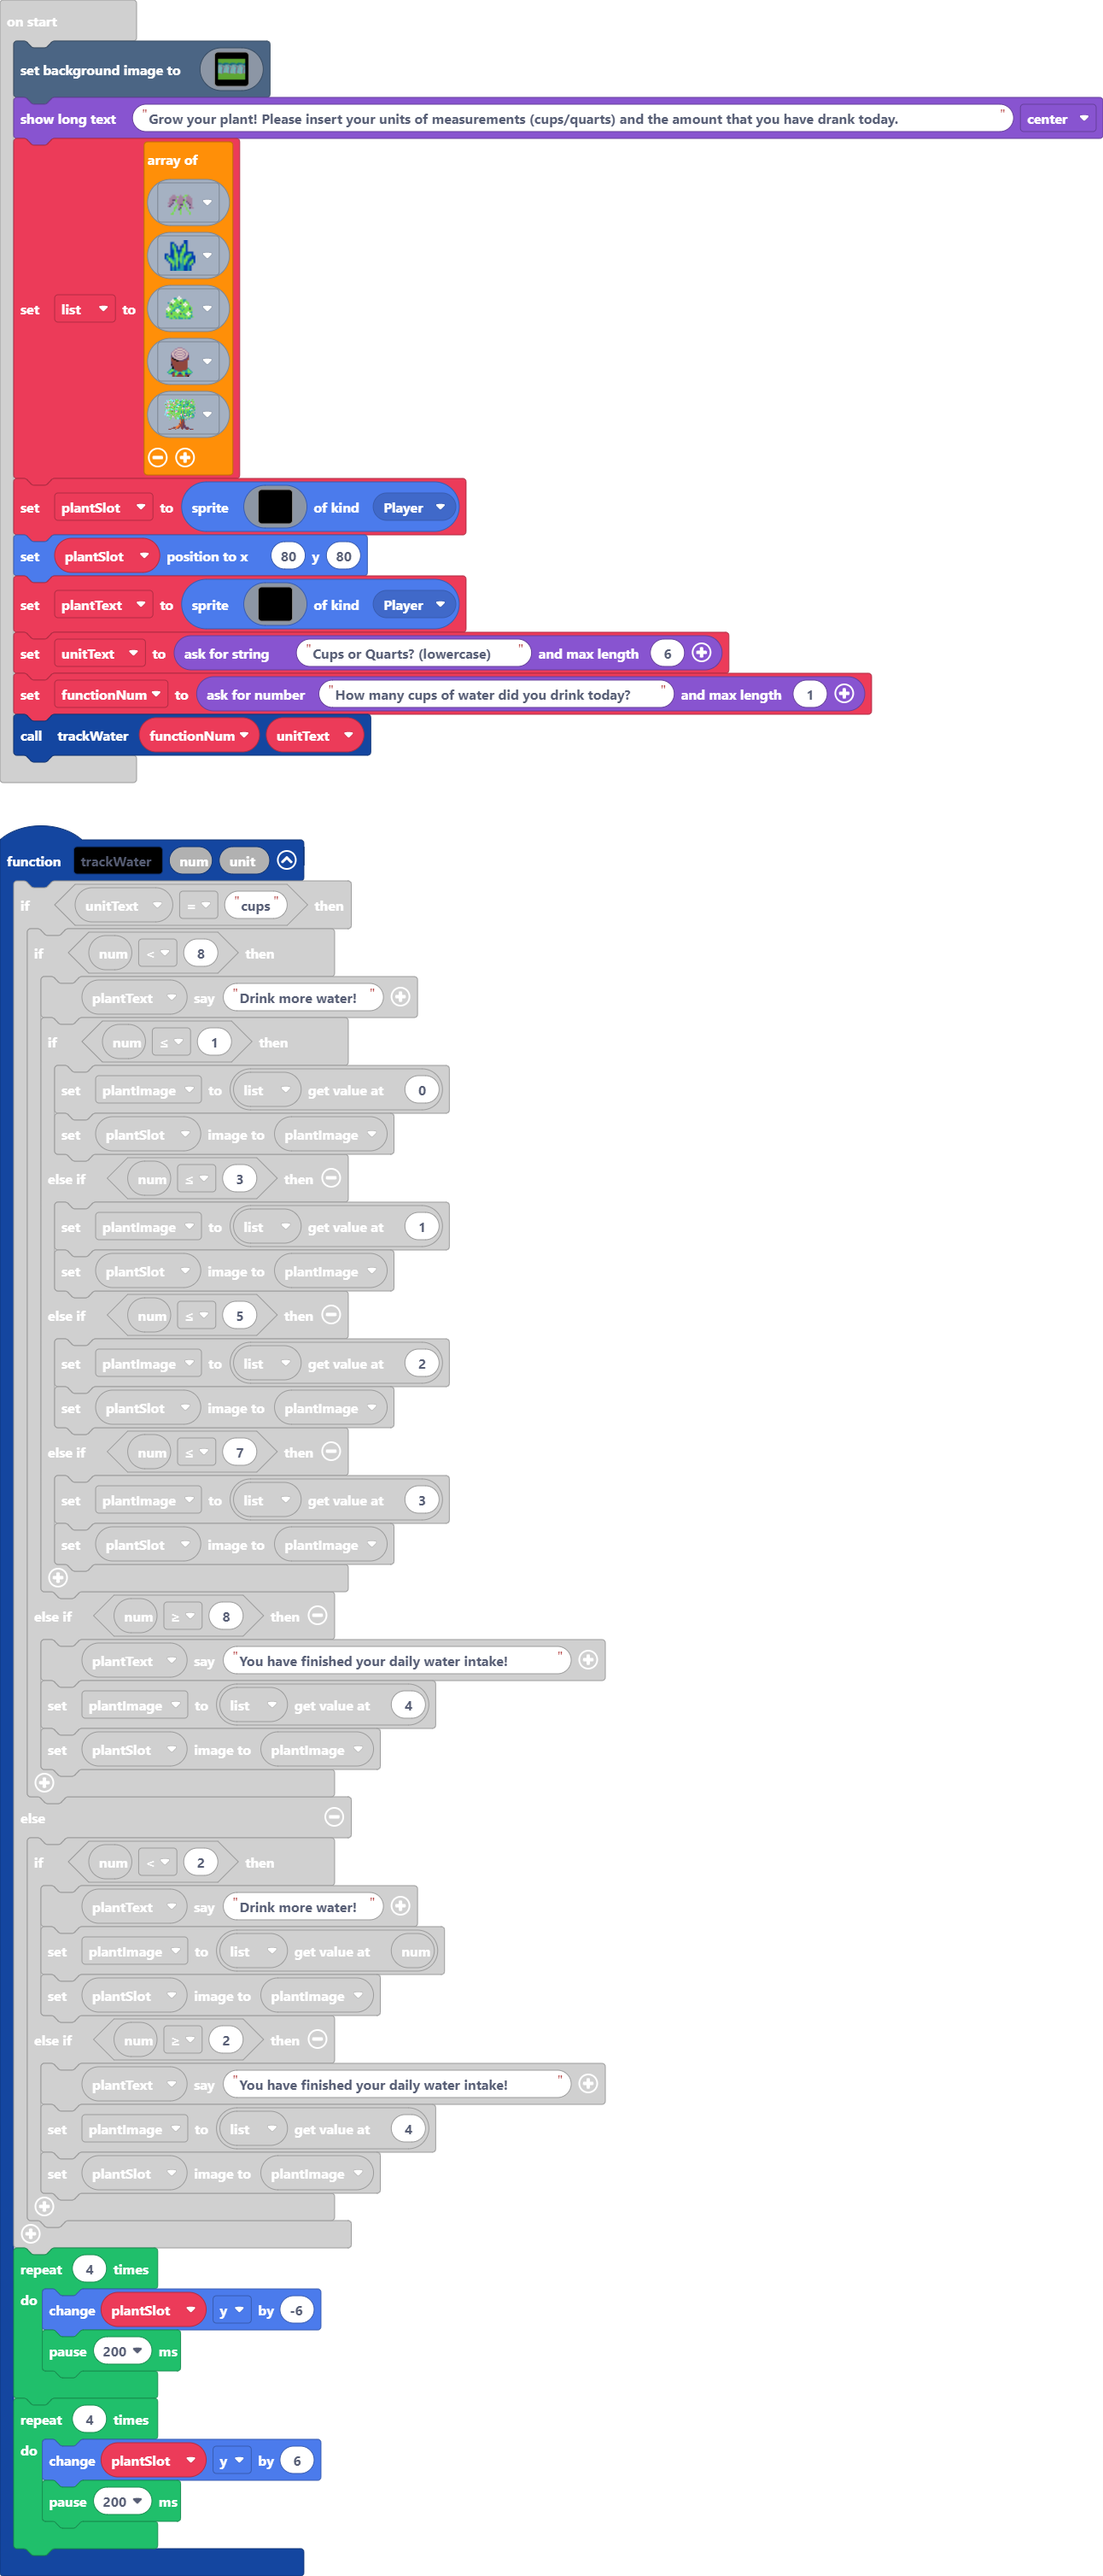
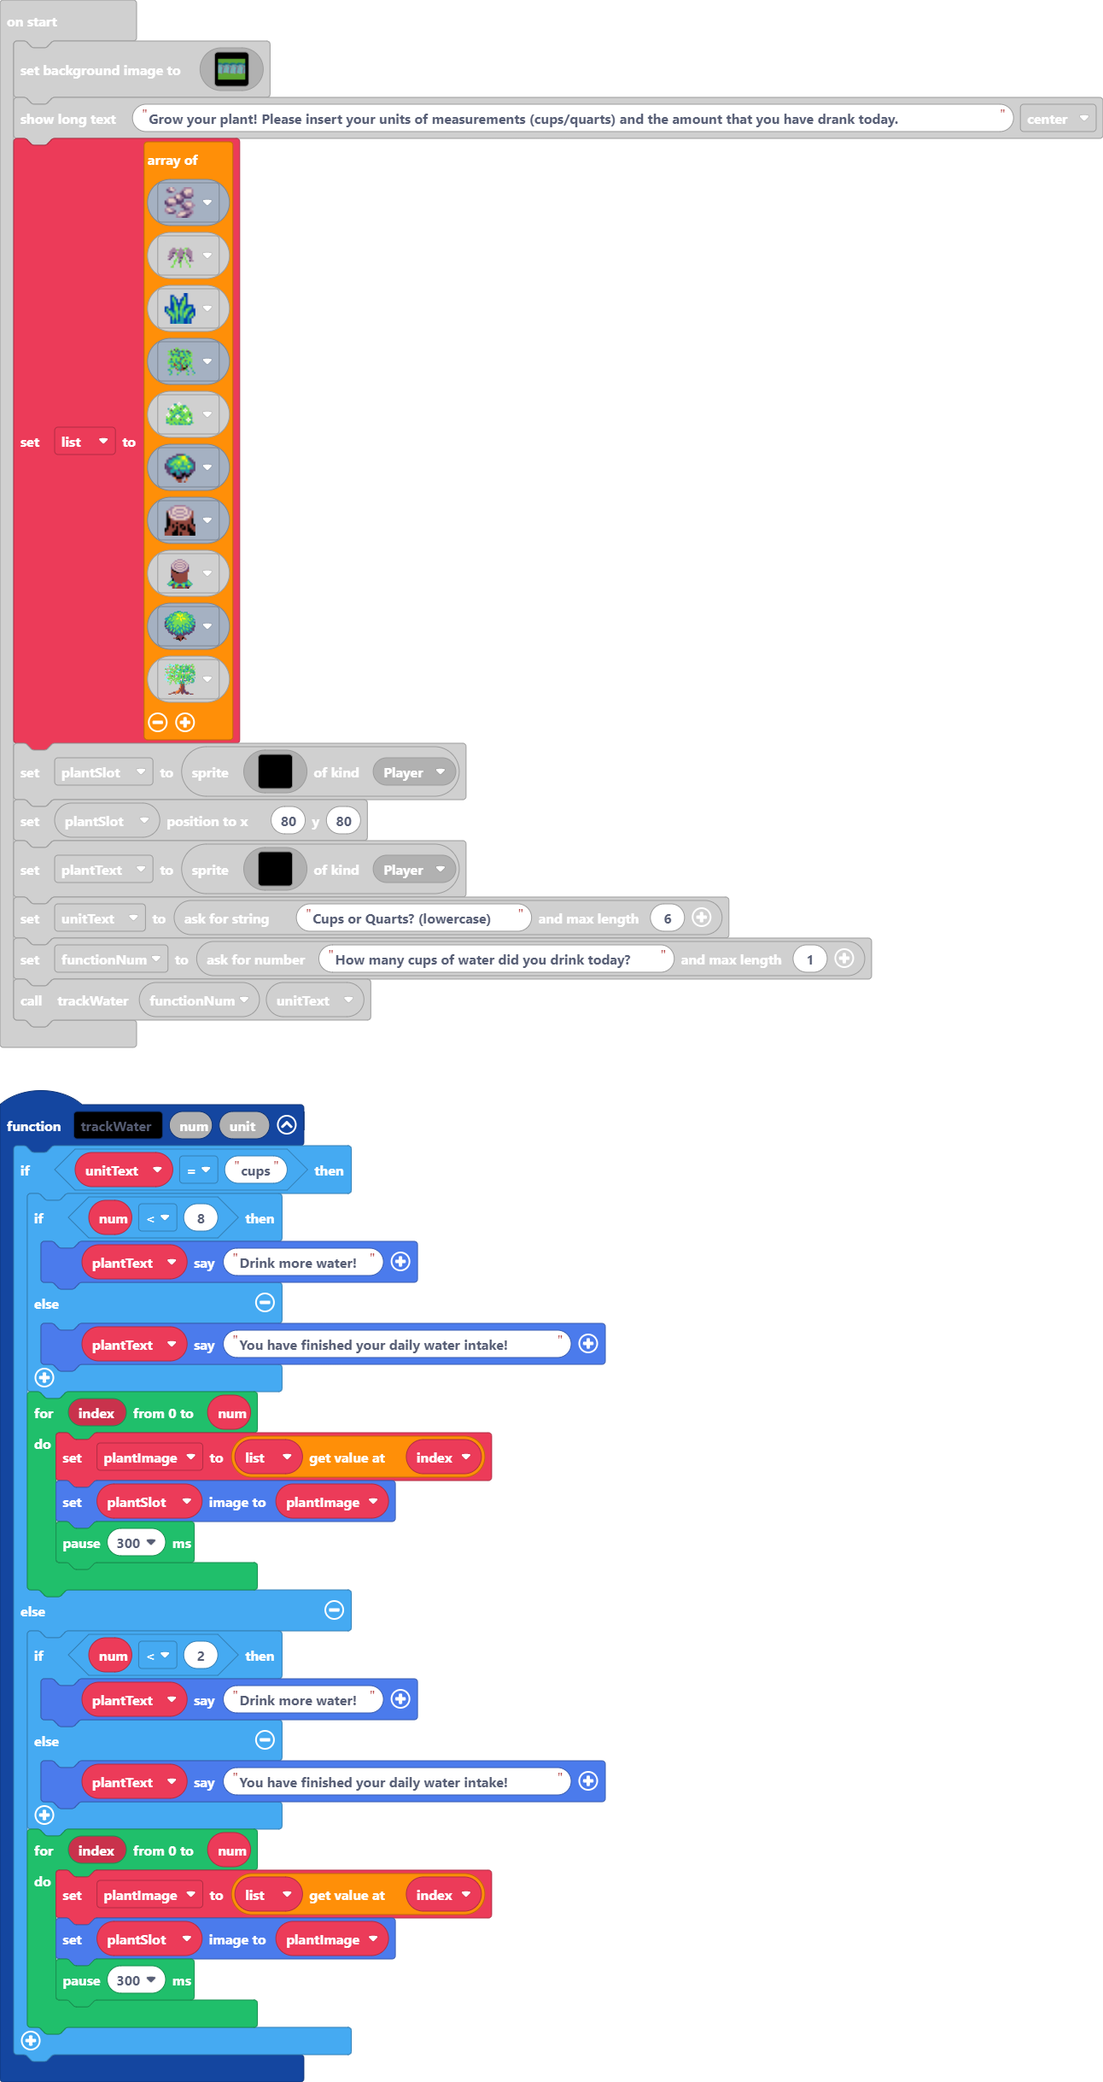
Update main.blocks, main.ts

Changed region(s): [[0.0, 0.0, 1.0, 0.9979]]

diff --git a/main.ts b/main.ts
@@ -2,42 +2,25 @@ function trackWater (num: number, unit: string) {
     if (unitText == "cups") {
         if (num < 8) {
             plantText.sayText("Drink more water!")
-            if (num <= 1) {
-                plantImage = list[0]
-                plantSlot.setImage(plantImage)
-            } else if (num <= 3) {
-                plantImage = list[1]
-                plantSlot.setImage(plantImage)
-            } else if (num <= 5) {
-                plantImage = list[2]
-                plantSlot.setImage(plantImage)
-            } else if (num <= 7) {
-                plantImage = list[3]
-                plantSlot.setImage(plantImage)
-            }
-        } else if (num >= 8) {
+        } else {
             plantText.sayText("You have finished your daily water intake!")
-            plantImage = list[4]
+        }
+        for (let index = 0; index <= num; index++) {
+            plantImage = list[index]
             plantSlot.setImage(plantImage)
+            pause(300)
         }
     } else {
         if (num < 2) {
             plantText.sayText("Drink more water!")
-            plantImage = list[num]
-            plantSlot.setImage(plantImage)
-        } else if (num >= 2) {
+        } else {
             plantText.sayText("You have finished your daily water intake!")
-            plantImage = list[4]
-            plantSlot.setImage(plantImage)
         }
-    }
-    for (let index = 0; index < 4; index++) {
-        plantSlot.y += -6
-        pause(200)
-    }
-    for (let index = 0; index < 4; index++) {
-        plantSlot.y += 6
-        pause(200)
+        for (let index = 0; index <= num; index++) {
+            plantImage = list[index]
+            plantSlot.setImage(plantImage)
+            pause(300)
+        }
     }
 }
 let plantImage: Image = null
@@ -169,10 +152,15 @@ scene.setBackgroundImage(img`
     `)
 game.showLongText("Grow your plant! Please insert your units of measurements (cups/quarts) and the amount that you have drank today.", DialogLayout.Center)
 list = [
+sprites.castle.rock2,
 sprites.skillmap.decoration12,
 sprites.swamp.swampTile3,
+sprites.skillmap.decoration1,
 sprites.skillmap.decoration13,
+sprites.castle.saplingOak,
+sprites.builtin.forestScenery1,
 sprites.duck.log1,
+sprites.castle.treeOak,
 sprites.skillmap.seasonalTree2
 ]
 plantSlot = sprites.create(img`
